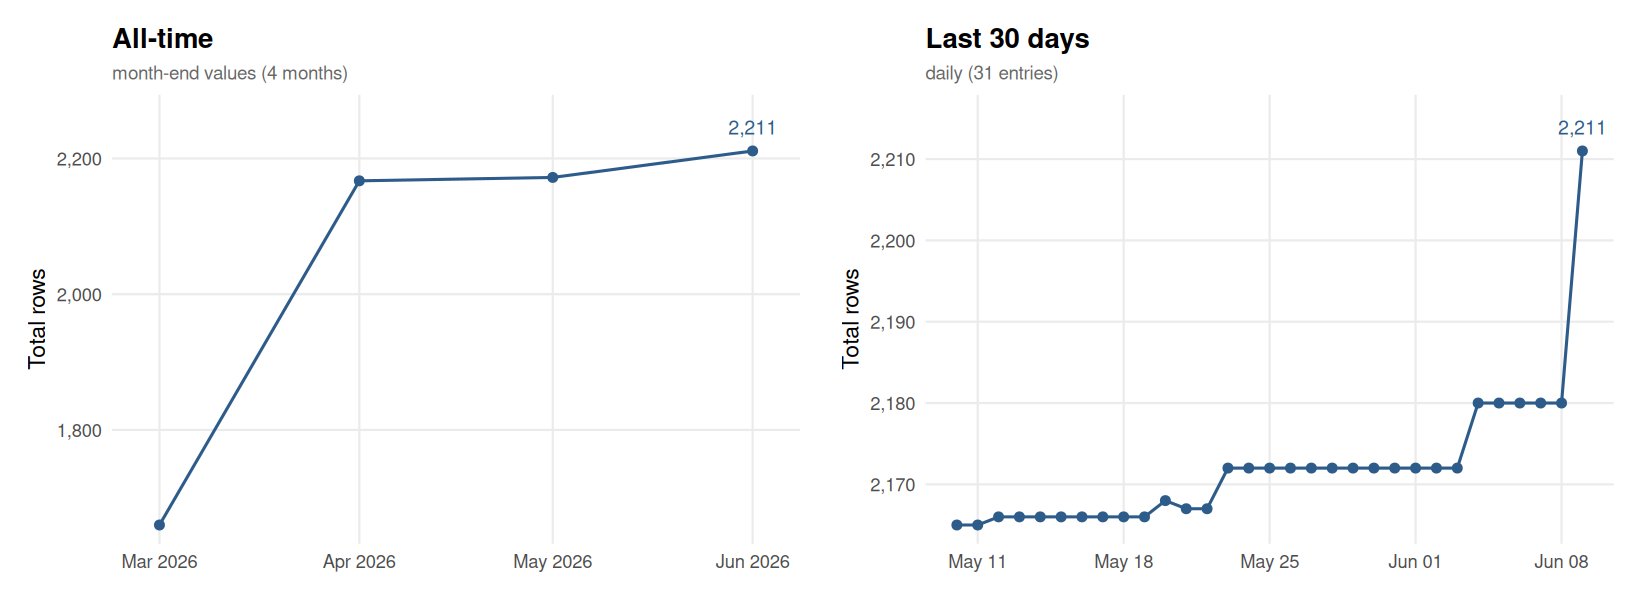
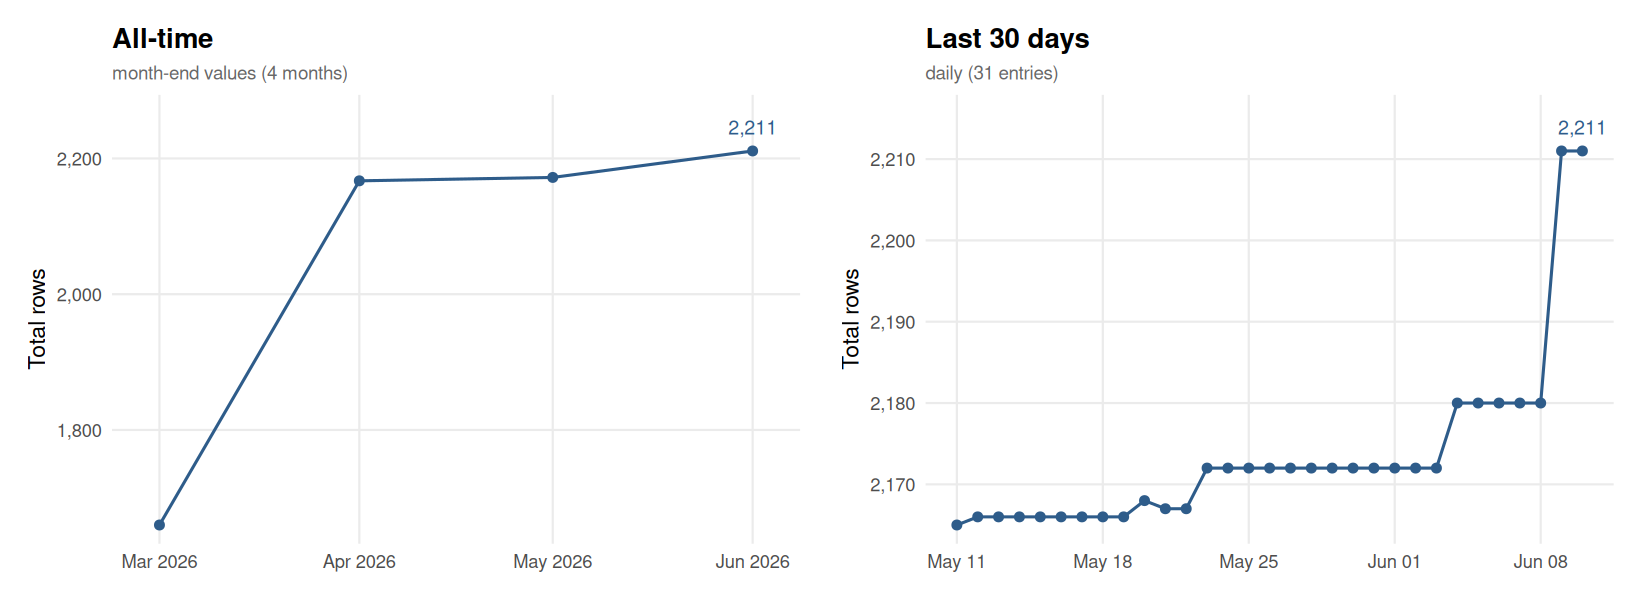
Update flora.csv [automated]

diff --git a/README.md b/README.md
@@ -438,14 +438,15 @@ For API issues:
 This chart is automatically updated after each pipeline run, showing the size of `output/flora.csv` over time.
 
 <!-- FLORA_UPDATE_LOG_START -->
-> **Latest (2026-06-09):** Total = 2,211 | Replications = 2,202 | Reproductions = 9
+> **Latest (2026-06-10):** Total = 2,211 | Replications = 2,202 | Reproductions = 9
 
 ![FLoRA dataset size over time](output/flora_history.png)
 
-<details><summary>Full history (82 entries)</summary>
+<details><summary>Full history (83 entries)</summary>
 
 | Date | Total | Replications | Reproductions |
 |------|------:|-------------:|--------------:|
+| 2026-06-10 | 2211 | 2202 | 9 |
 | 2026-06-09 | 2211 | 2202 | 9 |
 | 2026-06-08 | 2180 | 2171 | 9 |
 | 2026-06-07 | 2180 | 2171 | 9 |
